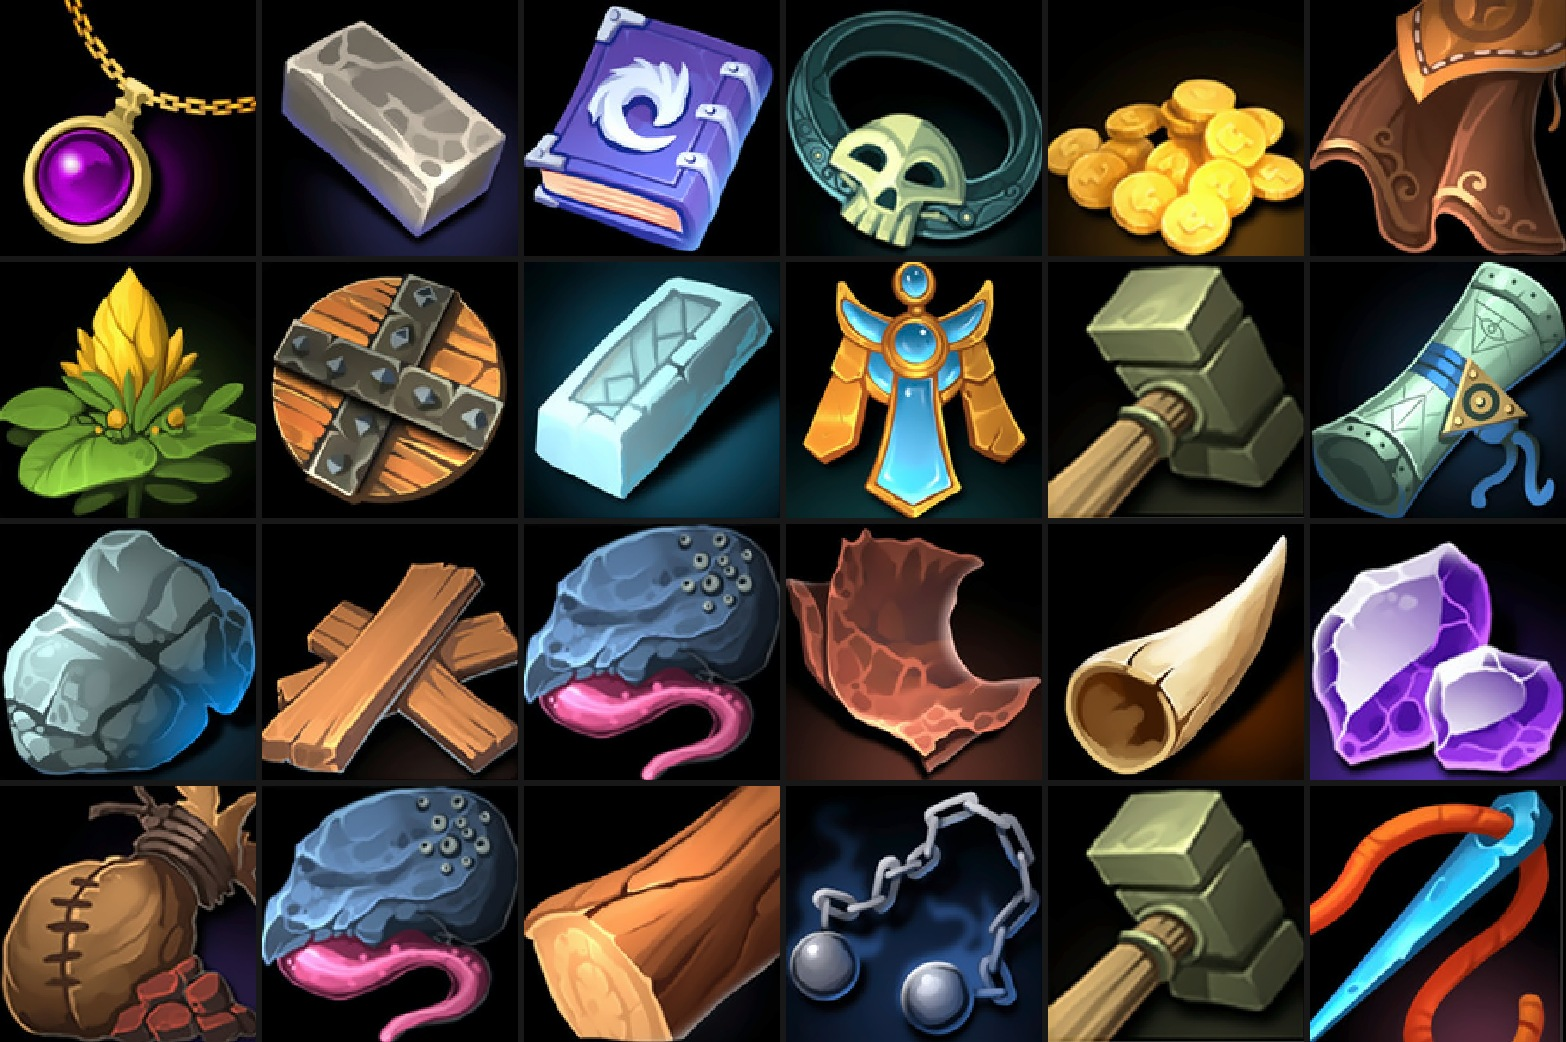
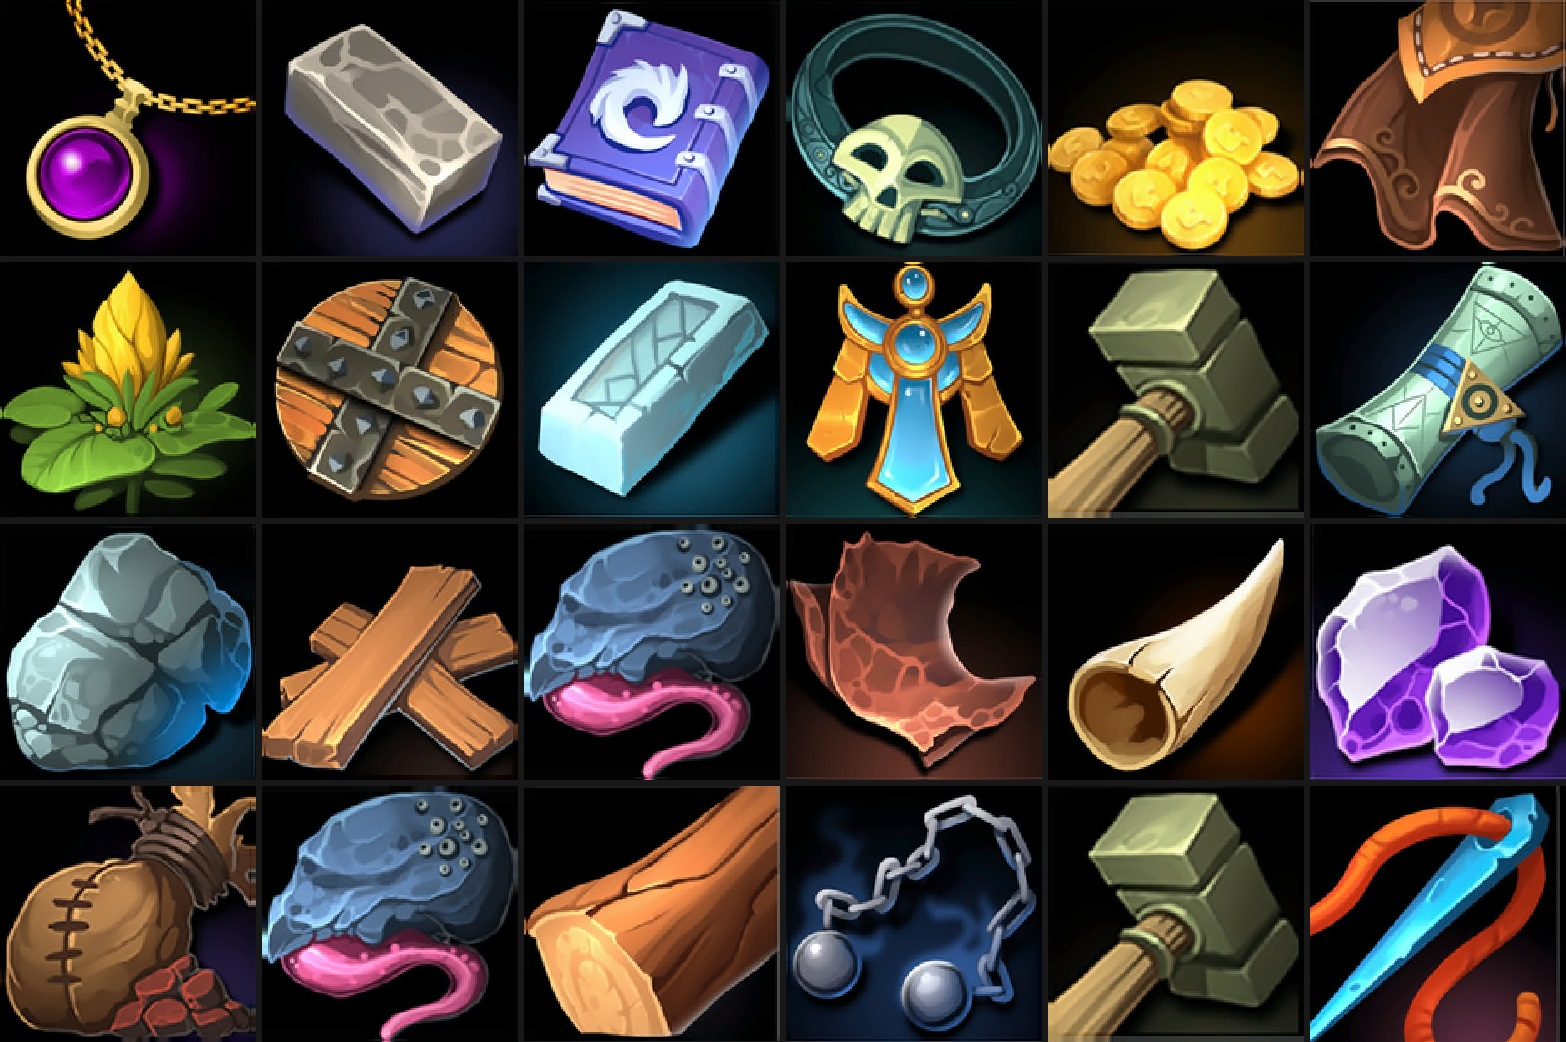
feat(batch): максимальный родной размер без среза (145-154 px)
Срез 2 px убирал серую линию листа, но и уменьшал иконку до 137-146.
Теперь линию не срезаем, а закрашиваем цветом соседнего пикселя
(адаптивно: только края, похожие на светлую ахроматичную линию).

- INSET_CROP = 0, trim_sheet_line() закрашивает, а не режет
- квадрат добирается повтором краевого столбца, без обрезки рисунка
- замер по 62 иконкам: 144-154, медиана 153 (было 137-150)
- samples/cut_proof.jpg обновлён

diff --git a/tools/batch_all.py b/tools/batch_all.py
@@ -77,53 +77,40 @@ def upscale(img: np.ndarray, size: int = 256, unsharp: float = 0.55,
 # --- рамка на готовом кадре -------------------------------------------------
 FRAME_RIM = 10      # толщина борта в пикселях ИТОГОВОГО кадра: одна на всех
 FRAME_GAP = 4       # зазор между бортом и рисунком: иконка целиком внутри рамки
-INSET_CROP = 2      # срезаем с края слота родную серо-белую линию листа
+INSET_CROP = 0      # ручной срез (0 - не срезать; линию листа убираем адаптивно)
 
 
-def inner_size(size: int) -> int:
-    """Сторона квадрата, в который вписывается сама иконка (внутри рамки)."""
-    return size - 2 * (FRAME_RIM + FRAME_GAP)
+def trim_sheet_line(img: np.ndarray, max_cut: int = 2) -> np.ndarray:
+    """Убрать родную серую линию листа на границе слота, не уменьшая иконку.
 
-
-def frame_params(variant: str, size: int) -> dict:
-    """Параметры бортика, пересчитанные в пиксели итогового кадра.
-
-    style_frame.py мериет расстояния в пикселях того изображения, на котором
-    рисует. Эталон у него - борт 5.5 px, поэтому длины масштабируем так,
-    чтобы борт стал ровно FRAME_RIM px, независимо от размера кадра.
+    Линия - это светлая ахроматичная полоса (яркость ~40-110, хрома ~0-10),
+    тогда как рисунок рядом почти чёрный или цветной. Такие края не срезаем
+    (иначе иконка становится мельче), а закрашиваем цветом соседней строки
+    внутри - размер остаётся максимальным, серой рамки листа нет.
     """
-    fp = S.params(variant, radius=0.0)
-    k = FRAME_RIM / fp["rim"]
-    for key in ("rim", "inset", "deep", "radius"):
-        fp[key] = max(0.0, float(fp[key]) * k)
-    fp["rim"] = float(FRAME_RIM)
-    # глубина внутренней тени при 256 px не должна залезать на рисунок:
-    # в эталоне она мерилась для слота ~145 px
-    fp["deep"] = min(fp["deep"], 9.0)
-    fp["radius"] = 0.0
-    return fp
+    def is_line(px: np.ndarray) -> bool:
+        f = px.astype(np.int16)
+        bright = f.mean()
+        chroma = (f.max(axis=1) - f.min(axis=1)).mean()
+        return bright >= 30 and chroma <= 14
 
-
-def compose_frame(body: np.ndarray, size: int, fp: dict) -> np.ndarray:
-    """Рамка рисуется первой, иконка вставляется внутрь - её никто не перекрывает.
-
-    Слот занимает весь кадр, борт тянется от края внутрь на rim + inset,
-    внутренняя тень уходит ещё на deep. Рисунок кладём в квадрат со стороной
-    size - 2 * (FRAME_RIM + FRAME_GAP): он целиком внутри борта, не обрезается
-    и не затемняется - в зазоре между бортом и рисунком видна глубина слота.
-    """
-    canvas = np.zeros((size, size, 3), np.uint8)
-    inner = inner_size(size)
-    # style_box тянет борт НАРУЖУ от переданного прямоугольника на rim px,
-    # поэтому прямоугольник ставим на FRAME_RIM внутрь: внешняя кромка борта
-    # ложится ровно на край кадра, без чёрной полосы снаружи
-    off = FRAME_RIM
-    S.style_box(canvas, (off, off, size - 1 - off, size - 1 - off), fp)
-    if body.shape[0] != inner or body.shape[1] != inner:
-        body = cv2.resize(body, (inner, inner), interpolation=cv2.INTER_AREA)
-    o = FRAME_RIM + FRAME_GAP      # зазор: в нём видна глубина слота
-    canvas[o:o + inner, o:o + inner] = body
-    return canvas
+    img = img.copy()
+    h, w = img.shape[:2]
+    if h < 2 * max_cut + 4 or w < 2 * max_cut + 4:
+        return img
+    for k in range(max_cut):                      # сверху
+        if is_line(img[k, :]):
+            img[k, :] = img[max_cut, :]
+    for k in range(max_cut):                      # снизу
+        if is_line(img[h - 1 - k, :]):
+            img[h - 1 - k, :] = img[h - 1 - max_cut, :]
+    for k in range(max_cut):                      # слева
+        if is_line(img[:, k]):
+            img[:, k] = img[:, max_cut]
+    for k in range(max_cut):                      # справа
+        if is_line(img[:, w - 1 - k]):
+            img[:, w - 1 - k] = img[:, w - 1 - max_cut]
+    return img
 
 
 def process_sheet(path: str, outroot: str, nslots: int | None,
@@ -157,16 +144,20 @@ def process_sheet(path: str, outroot: str, nslots: int | None,
                    max(0, x0 + pad):min(W, x1 + 1 - pad)]
         if crop.shape[0] < 8 or crop.shape[1] < 8:
             continue
+        crop = trim_sheet_line(crop)          # убрать линию листа, не рисунок
         clean = C.clean_fill(crop, "normal")
         if size > 0:                       # апскейл только если он запрошен
             big = upscale(clean, size=inner, algo=algo)
         else:
-            # пиксель в пиксель, без размытия; разница в 1 px по сторонам
-            # от детектора -> аккуратный квадрат по центру
+            # пиксель в пиксель, без размытия и без обрезки.
+            # Квадрат: не хватает пары пикселей по стороне -> добираем повтором
+            # краевой строки/столбца (рисунок от этого не страдает).
             h, w = clean.shape[:2]
-            d = min(h, w)
-            big = clean[(h - d) // 2:(h - d) // 2 + d,
-                        (w - d) // 2:(w - d) // 2 + d]
+            d = max(h, w)
+            pad_t, pad_b = 0, d - h
+            pad_l, pad_r = 0, d - w
+            big = cv2.copyMakeBorder(clean, pad_t, pad_b, pad_l, pad_r,
+                                     cv2.BORDER_REPLICATE)
         if fp is not None:
             big = compose_frame(big, size, fp)
         out = os.path.join(outdir, f"{stem}__slot{k:02d}.png")

diff --git a/README_START.md b/README_START.md
@@ -12,8 +12,11 @@
 5. соберёт превью в `samples/` и откроет папку с результатом.
 
 Результат: **`icons_cut/<папка>/<лист>__slotNN.png`** — 11 300 файлов, ~4 минуты.
-Размер — **родной**, примерно 143×143: **без апскейла и без рамки**, пиксель
-в пиксель, поэтому ничего не размывается.
+Размер — **родной, максимальный**: 145–154 px (столько, сколько слот занимает
+на листе; слот в сетке 10×5 — 153 px). **Без апскейла и без рамки**, пиксель
+в пиксель, поэтому ничего не размывается. Родная серая линия листа по краю
+слота не срезается (это уменьшало иконку), а закрашивается цветом соседнего
+пикселя.
 
 ## macOS / Linux
 
